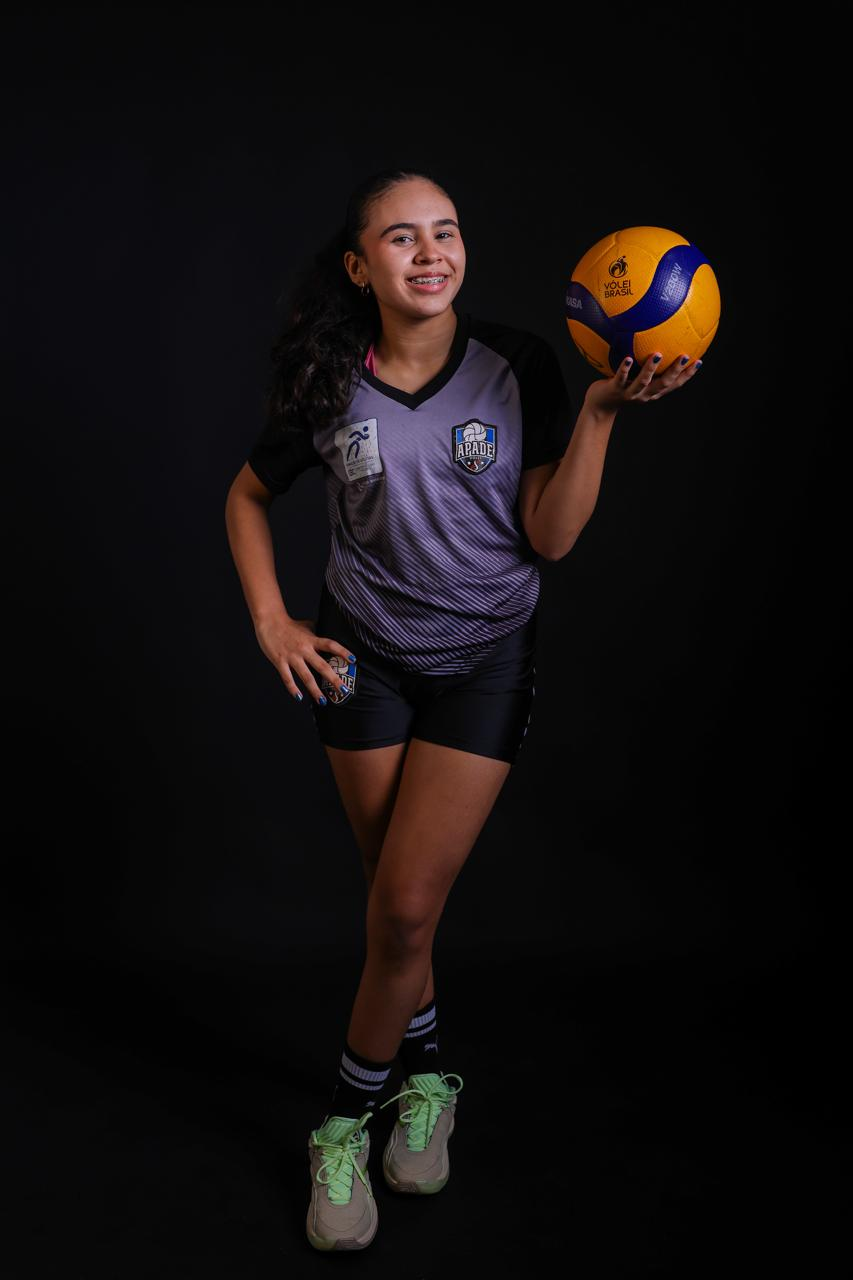
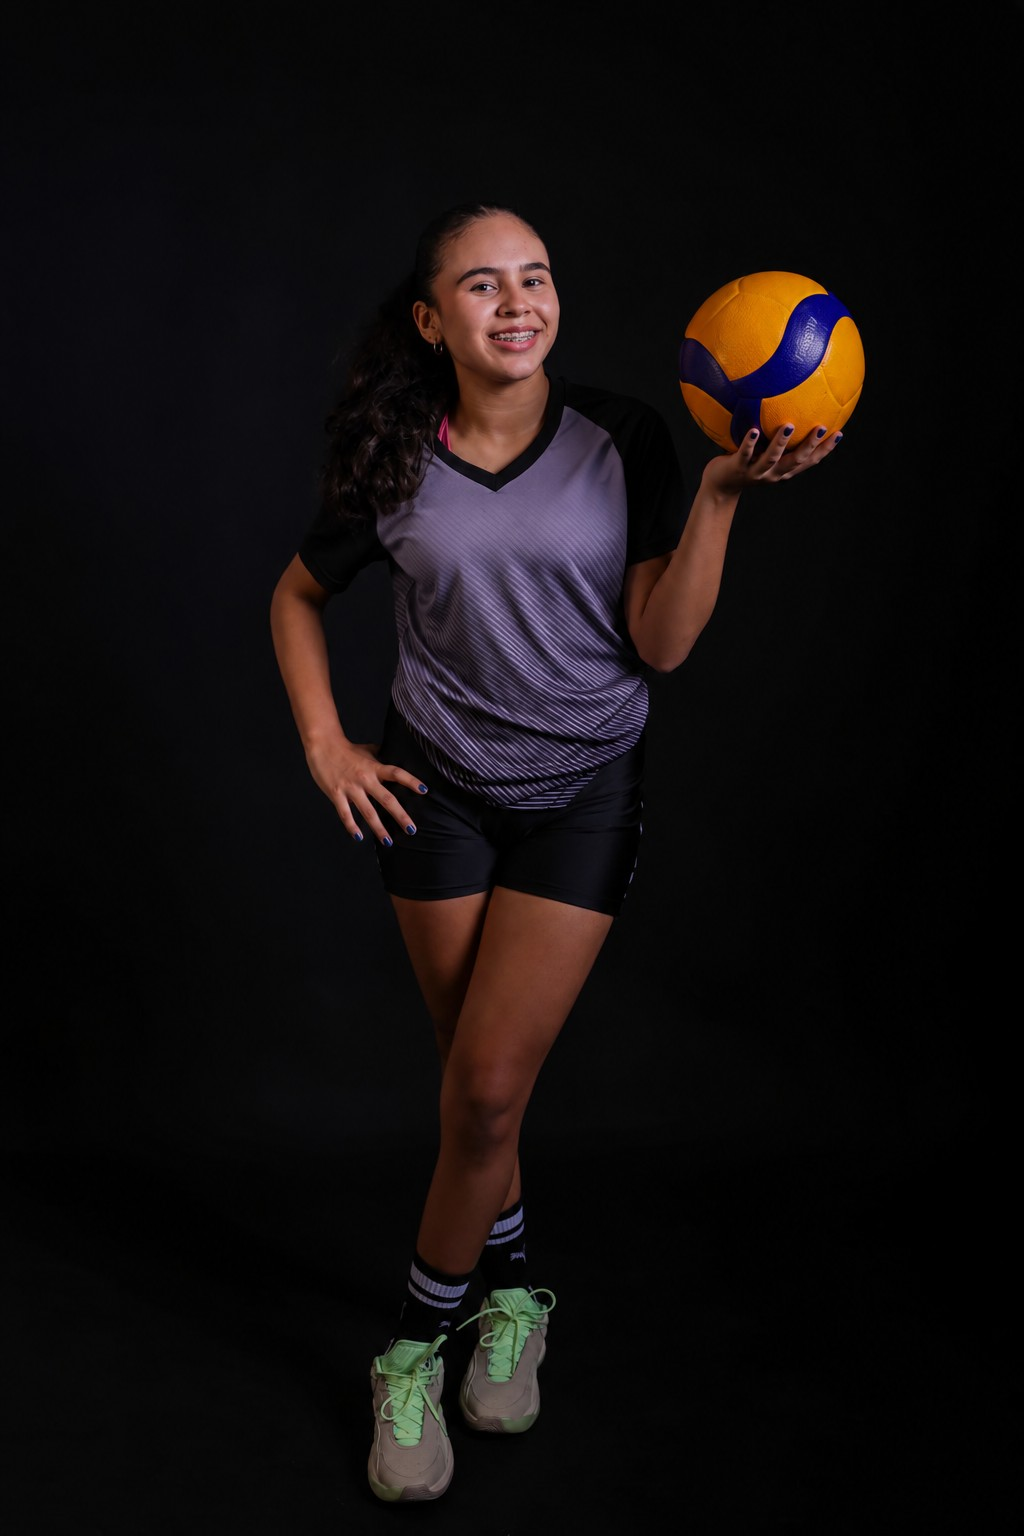
Add files via upload

diff --git a/assets/js/dados-conquistas.js b/assets/js/dados-conquistas.js
@@ -12,6 +12,11 @@
 */
 
 window.CONQUISTAS_MARIA_VALENTINA = [
+  { ano: 2026, tipo: "titulo", resultado: "Campeã", competicao: "Semana Estudantil Mocajubense", categoria: "Adulto" },
+  { ano: 2026, tipo: "titulo", resultado: "Campeã", competicao: "Semana Estudantil Baioniense", categoria: "Adulto" },
+  { ano: 2026, tipo: "titulo", resultado: "Campeã", competicao: "JEPS — Colégio Santa Catarina de Sena", categoria: "Categoria B" },
+  { ano: 2026, tipo: "titulo", resultado: "Campeã", competicao: "Super JEPS — Colégio Santa Catarina de Sena", categoria: "Categoria B" },
+
   { ano: 2025, tipo: "titulo", resultado: "Campeã", competicao: "Campeonato Paraense", categoria: "Sub-16" },
   { ano: 2025, tipo: "titulo", resultado: "Campeã", competicao: "Campeonato Paraense", categoria: "Sub-17" },
   { ano: 2025, tipo: "titulo", resultado: "Campeã", competicao: "Campeonato Paraense", categoria: "Sub-19" },
@@ -36,6 +41,7 @@ window.CONQUISTAS_MARIA_VALENTINA = [
   { ano: 2023, tipo: "titulo", resultado: "Campeã", competicao: "Copa Colégio Santa Catarina de Sena", categoria: "U-15" },
   { ano: 2023, tipo: "titulo", resultado: "Campeã", competicao: "Copa APADE", categoria: "U-15" },
 
+  { ano: 2026, tipo: "premio", resultado: "Melhor da partida", competicao: "Campeonato Paraense", categoria: "Sub-19" },
   { ano: 2025, tipo: "premio", resultado: "Melhor levantadora", competicao: "Campeonato Paraense", categoria: "Sub-16" },
   { ano: 2025, tipo: "premio", resultado: "Melhor levantadora", competicao: "Campeonato Paraense", categoria: "Sub-19" },
   { ano: 2025, tipo: "premio", resultado: "Melhor levantadora", competicao: "Campeonato Brasileiro de Seleções — 2ª divisão", categoria: "Sub-16" },
